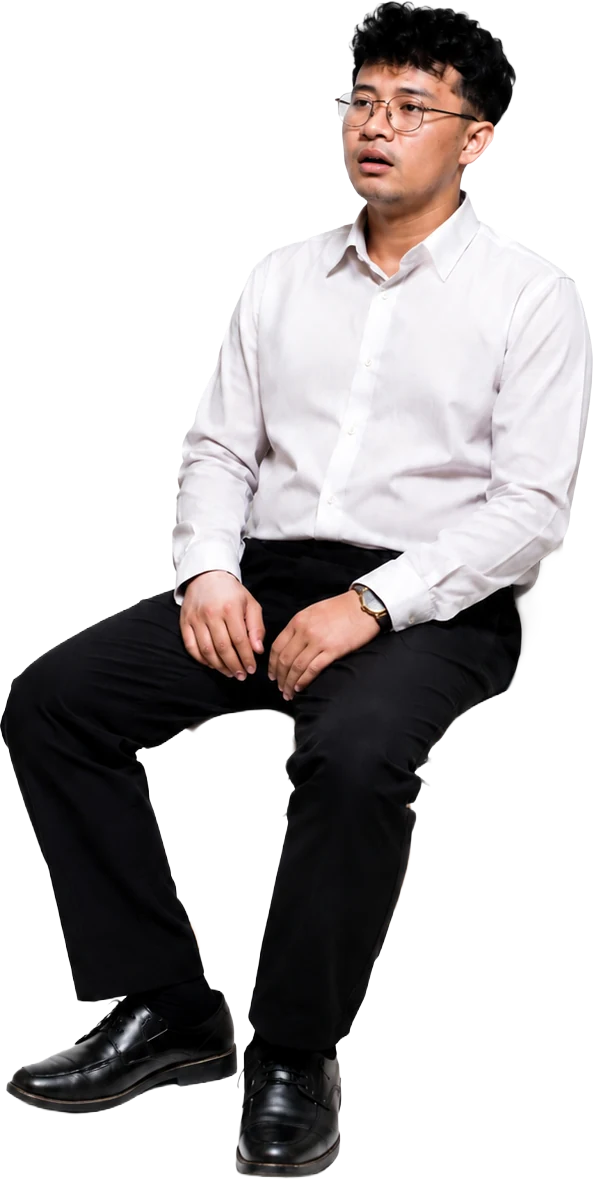
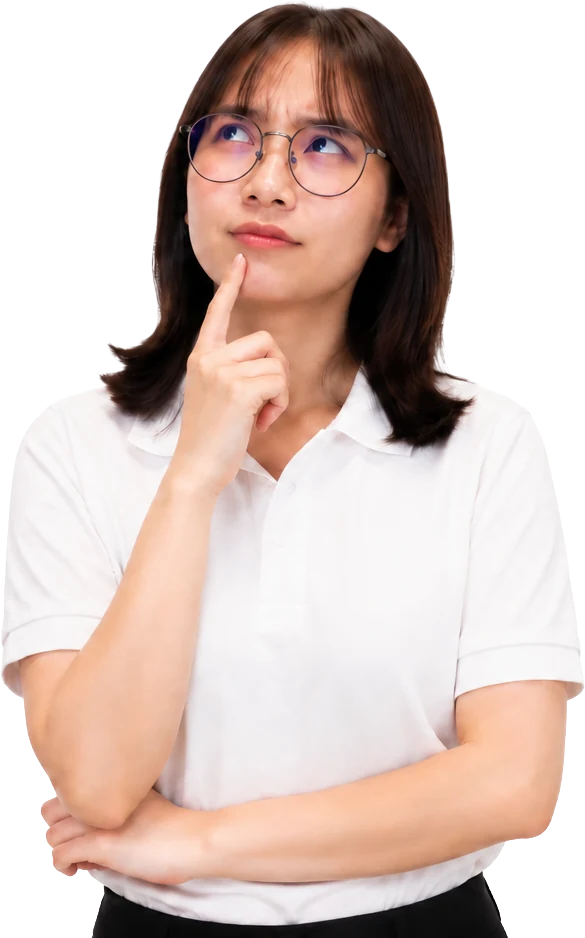
Open the module chooser in a modal, and tighten the page
The Login control now opens the eight modules in a dialog instead of loading
a page for a one-step decision. It stays an <a href="login.html"> and the
handler bails on modified clicks, so the URL is still bookmarkable, opens in
a new tab, and degrades to the standalone page if the script fails. Esc
closes, focus is trapped then restored to the trigger, and the scrollbar gap
is compensated so locking the body does not shift the layout.

Alongside that, several fixes:

The hero met the problem section as a hard colour band — its gradient runs
diagonally and ends warm, while the next section started on flat lilac. The
hero backdrop now fades into that exact colour, and the problem gradient
starts vertically so its top edge is uniform.

Section padding was clamp(64px,8vw,112px), stacking 224px of air between
sections on a wide screen. Now clamp(48px,5.6vw,80px).

Swaps the problem and stats portraits, and crops the problem one to half
body with a masked fade at the cut. Four question marks float around him,
replacing the two pseudo-elements.

The Populer badge moves above the plan name so it labels the card rather
than trailing the title, and "Semua di Starter, plus:" loses the suffix.
Two more FAQ entries: running several modules, and changing plan later.

diff --git a/assets/css/styles.css b/assets/css/styles.css
@@ -222,9 +222,15 @@ h3{font-size:1.06rem;line-height:1.35;letter-spacing:-.015em;font-weight:700}
 /* ============================================================
    HERO
    ============================================================ */
-.hero{position:relative;padding:clamp(48px,7vw,86px) 0 clamp(60px,8vw,110px);margin-top:calc(var(--nav-h) * -1);padding-top:calc(var(--nav-h) + 40px);overflow:hidden}
+.hero{position:relative;padding:clamp(48px,7vw,86px) 0 clamp(48px,6vw,86px);margin-top:calc(var(--nav-h) * -1);padding-top:calc(var(--nav-h) + 40px);overflow:hidden}
 .hero-bg{position:absolute;inset:-10% -5% 0;z-index:-1;background:
   linear-gradient(150deg,#EFE7FB 0%,#F6EAF6 32%,#FBEDEE 60%,#FDF2E9 82%,#FFFDFB 100%)}
+/* The hero's gradient runs diagonally and ends warm, while the next section
+   starts on a flat lilac — without this fade the two meet as a hard band. */
+.hero-bg::after{
+  content:"";position:absolute;left:0;right:0;bottom:0;height:230px;
+  background:linear-gradient(to bottom,rgba(238,232,250,0),#EEE8FA);
+}
 .blob{position:absolute;border-radius:50%;filter:blur(70px);opacity:.55}
 .b1{width:520px;height:520px;left:-8%;top:8%;background:#D9C7F5}
 .b2{width:480px;height:480px;right:-6%;top:-6%;background:#F7CFE0}
@@ -357,14 +363,16 @@ h3{font-size:1.06rem;line-height:1.35;letter-spacing:-.015em;font-weight:700}
 /* ============================================================
    SECTION SHELL
    ============================================================ */
-.sec{position:relative;padding:clamp(64px,8vw,112px) 0}
+.sec{position:relative;padding:clamp(48px,5.6vw,80px) 0}
 .sec-head{display:grid;grid-template-columns:minmax(0,1.55fr) minmax(0,1fr);gap:clamp(24px,4vw,52px);align-items:start;margin-bottom:clamp(36px,4vw,58px)}
 /* Slightly tighter than the global scale so the two-line headings in these
    sections hold their intended line breaks. */
 .sec-head h2{font-size:clamp(1.8rem,3vw,2.5rem);margin-bottom:18px}
 
 /* ── problem ────────────────────────────────────────── */
-.problem{background:linear-gradient(165deg,#EEE8FA 0%,#F5EBF6 40%,#FBEEEF 70%,#FDF4EC 100%)}
+/* Starts vertically so its top edge is a flat #EEE8FA — the exact colour the
+   hero's fade lands on — then leans diagonal further down. */
+.problem{background:linear-gradient(180deg,#EEE8FA 0%,#F0E9F8 18%,#F5EBF6 45%,#FBEEEF 74%,#FDF4EC 100%)}
 .problem > .wrap > h2{margin-bottom:44px}
 .problem-grid{display:grid;grid-template-columns:minmax(0,1fr) minmax(0,.9fr) minmax(0,1.06fr);gap:clamp(16px,2.5vw,34px);align-items:center}
 .problem-list{display:flex;flex-direction:column;gap:14px}
@@ -387,14 +395,22 @@ h3{font-size:1.06rem;line-height:1.35;letter-spacing:-.015em;font-weight:700}
 .pi .badge .ico{width:10px;height:10px;color:#fff;stroke-width:3}
 
 .problem-mid{position:relative;align-self:end;text-align:center}
-.problem-mid .person{position:relative;z-index:1;width:100%;max-width:340px;margin-inline:auto}
-/* Question marks from the mockup — the cut-out photo no longer carries them. */
-.problem-mid::before,.problem-mid::after{
-  content:"?";position:absolute;z-index:0;
+.problem-mid .person{
+  position:relative;z-index:1;width:100%;max-width:340px;margin-inline:auto;
+  /* Half-body crop — fade the cut so it doesn't read as a hard slice. */
+  -webkit-mask-image:linear-gradient(to bottom,#000 86%,transparent);
+  mask-image:linear-gradient(to bottom,#000 86%,transparent);
+}
+/* Question marks from the mockup — the cut-out photo doesn't carry them. */
+.qmarks{position:absolute;inset:0;z-index:0}
+.qmarks i{
+  position:absolute;font-style:normal;
   color:#B7A2E6;font-weight:800;line-height:1;
 }
-.problem-mid::before{left:0;top:6%;font-size:clamp(2.4rem,4vw,3.6rem);animation:fl 7s ease-in-out infinite}
-.problem-mid::after{right:2%;top:16%;font-size:clamp(1.6rem,2.6vw,2.4rem);animation:fl 9s ease-in-out 1.2s infinite}
+.qmarks i:nth-child(1){left:2%;top:14%;font-size:clamp(2.2rem,3.6vw,3.2rem);animation:fl 7s ease-in-out infinite}
+.qmarks i:nth-child(2){right:1%;top:6%;font-size:clamp(2.6rem,4.2vw,3.8rem);animation:fl 8.5s ease-in-out .6s infinite}
+.qmarks i:nth-child(3){left:12%;top:41%;font-size:clamp(1.3rem,2vw,1.9rem);opacity:.8;animation:fl 9.5s ease-in-out 1.2s infinite}
+.qmarks i:nth-child(4){right:9%;top:34%;font-size:clamp(1.5rem,2.4vw,2.2rem);opacity:.85;animation:fl 10.5s ease-in-out 1.8s infinite}
 
 .solve{
   padding:clamp(26px,3vw,38px);border-radius:var(--r-xl);
@@ -614,7 +630,15 @@ h3{font-size:1.06rem;line-height:1.35;letter-spacing:-.015em;font-weight:700}
 .plan.pop{border-color:#DACFFA;box-shadow:0 24px 50px -24px rgba(124,92,232,.4)}
 .plan-top{display:flex;align-items:center;gap:12px;margin-bottom:12px}
 .plan-top h3{font-size:1.28rem;font-weight:800;letter-spacing:-.02em}
-.tag{margin-left:auto;padding:4px 11px;border-radius:999px;background:var(--purple-soft);color:var(--purple);font-size:.68rem;font-weight:700}
+/* Sits above the plan name rather than beside it, so it reads as a label on
+   the whole card instead of an afterthought next to the title. */
+.tag{
+  display:inline-flex;align-items:center;align-self:flex-start;
+  margin-bottom:14px;padding:6px 14px;border-radius:999px;
+  background:linear-gradient(100deg,var(--purple),#8B4FE0);color:#fff;
+  font-size:.7rem;font-weight:700;letter-spacing:.04em;text-transform:uppercase;
+  box-shadow:0 6px 16px -8px rgba(124,92,232,.9);
+}
 .plan > p{font-size:.83rem;color:var(--muted);line-height:1.5;margin-bottom:20px;min-height:3em}
 .plan ul{display:flex;flex-direction:column;gap:11px;margin-bottom:24px}
 .plan li{display:flex;align-items:flex-start;gap:10px;font-size:.85rem;color:var(--ink-2)}
@@ -725,6 +749,76 @@ h3{font-size:1.06rem;line-height:1.35;letter-spacing:-.015em;font-weight:700}
 }
 .made{display:flex;align-items:center;gap:7px}
 .heart{color:var(--purple-2);stroke:none}
+
+/* ============================================================
+   MODAL PEMILIH MODUL
+   ============================================================ */
+.lm{position:fixed;inset:0;z-index:120;display:grid;place-items:center;padding:20px}
+.lm-veil{
+  position:absolute;inset:0;
+  background:rgba(24,20,52,.42);backdrop-filter:blur(4px);
+  opacity:0;transition:opacity .25s;
+}
+.lm-panel{
+  position:relative;width:min(100%,720px);max-height:calc(100vh - 40px);
+  overflow-y:auto;overscroll-behavior:contain;
+  padding:clamp(26px,4vw,38px);border-radius:var(--r-xl);
+  background:#fff;box-shadow:0 40px 90px -30px rgba(24,20,52,.5);
+  opacity:0;transform:translateY(14px) scale(.98);
+  transition:opacity .28s cubic-bezier(.22,1,.36,1),transform .28s cubic-bezier(.22,1,.36,1);
+}
+.lm.on .lm-veil{opacity:1}
+.lm.on .lm-panel{opacity:1;transform:none}
+
+.lm-x{
+  position:absolute;top:16px;right:16px;
+  display:grid;place-items:center;width:38px;height:38px;border-radius:50%;
+  color:var(--muted);transition:background .2s,color .2s;
+}
+.lm-x:hover{background:#F4F1FB;color:var(--ink)}
+.lm-panel h2{font-size:clamp(1.35rem,2.4vw,1.75rem);margin-bottom:10px}
+.lm-lead{font-size:.9rem;color:var(--muted);line-height:1.6;margin-bottom:22px;max-width:52ch}
+
+.lm-grid{display:grid;grid-template-columns:1fr 1fr;gap:10px}
+.lm-grid a{
+  --accent:var(--purple);
+  display:flex;align-items:center;gap:13px;
+  padding:13px 15px;border-radius:16px;
+  border:1px solid var(--line-2);background:#FCFBFE;
+  transition:border-color .22s,background .22s,transform .22s;
+}
+.lm-grid a:hover,.lm-grid a:focus-visible{
+  background:#fff;transform:translateX(3px);outline:none;
+  border-color:color-mix(in srgb,var(--accent) 40%,transparent);
+}
+.lm-grid a:focus-visible{box-shadow:0 0 0 3px color-mix(in srgb,var(--accent) 22%,transparent)}
+.lm-icon{display:grid;place-items:center;flex:none;width:40px;height:40px;border-radius:12px;color:#fff}
+.lm-icon .ico{width:20px;height:20px}
+.lm-body{flex:1;min-width:0}
+.lm-body b{display:block;font-size:.92rem;font-weight:700;letter-spacing:-.01em}
+.lm-body code{display:block;font-family:var(--mono);font-size:.68rem;color:var(--muted-2);margin-top:2px}
+.lm-grid a > .ico{color:var(--accent);opacity:0;transform:translateX(-4px);transition:opacity .22s,transform .22s}
+.lm-grid a:hover > .ico,.lm-grid a:focus-visible > .ico{opacity:1;transform:none}
+
+.lm-foot{
+  display:flex;flex-wrap:wrap;align-items:center;gap:10px;
+  margin-top:22px;padding-top:18px;border-top:1px solid var(--line-2);
+  font-size:.86rem;color:var(--muted);
+}
+.lm-foot a{font-weight:700;color:var(--purple)}
+.lm-foot a:hover{text-decoration:underline}
+.lm-foot span{color:#C9C3DA}
+
+@media (max-width:620px){
+  .lm{padding:12px}
+  .lm-grid{grid-template-columns:1fr}
+  .lm-lead{margin-bottom:18px}
+}
+
+@media (prefers-reduced-motion:reduce){
+  .lm-veil,.lm-panel,.lm-grid a,.lm-grid a > .ico{transition:none}
+  .lm-panel{transform:none}
+}
 
 /* ============================================================
    REVEAL

diff --git a/assets/js/login-modal.js b/assets/js/login-modal.js
@@ -1,0 +1,120 @@
+/* ============================================================
+   ALTORA — modal pemilih modul
+
+   Tombol "Login" tetap sebuah <a href="login.html">, jadi tautannya bisa
+   di-bookmark, dibuka di tab baru, dan tetap berfungsi kalau skrip ini gagal
+   dimuat. Skrip ini hanya mencegat klik biasa dan menampilkan pilihan yang
+   sama tanpa meninggalkan halaman.
+   ============================================================ */
+(function () {
+  'use strict';
+
+  var modules = window.ALTORA_MODULES || [];
+  var links = document.querySelectorAll('a[href="login.html"]');
+  if (!modules.length || !links.length) return;
+
+  var FOCUSABLE = 'a[href],button:not([disabled]),input,[tabindex]:not([tabindex="-1"])';
+  var modal = null;
+  var lastFocused = null;
+
+  function icon(id) {
+    return '<svg class="ico"><use href="#' + id + '"/></svg>';
+  }
+
+  function build() {
+    var el = document.createElement('div');
+    el.className = 'lm';
+    el.hidden = true;
+    el.innerHTML =
+      '<div class="lm-veil" data-close></div>' +
+      '<div class="lm-panel" role="dialog" aria-modal="true" aria-labelledby="lmTitle">' +
+        '<button class="lm-x" type="button" data-close aria-label="Tutup">' + icon('i-x') + '</button>' +
+        '<p class="eyebrow eyebrow-purple">Masuk ke Altora</p>' +
+        '<h2 id="lmTitle">Pilih modul yang ingin Anda akses</h2>' +
+        '<p class="lm-lead">Setiap modul punya halaman masuk sendiri. Punya lebih dari satu? Masuk ke masing-masing modul sesuai bisnis yang ingin dikelola.</p>' +
+        '<ul class="lm-grid">' +
+          modules.map(function (m) {
+            return '<li><a href="https://' + m.host + '" style="--accent:' + m.hex + '">' +
+              '<span class="lm-icon" style="background:' + m.hex + '">' + icon(m.icon) + '</span>' +
+              '<span class="lm-body"><b>' + m.name + '</b><code>' + m.host + '</code></span>' +
+              icon('i-arrow') +
+            '</a></li>';
+          }).join('') +
+        '</ul>' +
+        '<p class="lm-foot">Belum punya akun? <a href="#cta" data-close>Mulai gratis</a>' +
+          '<span>·</span><a href="login.html">Buka halaman penuh</a></p>' +
+      '</div>';
+
+    el.addEventListener('click', function (e) {
+      if (e.target.closest('[data-close]')) close();
+    });
+    document.body.appendChild(el);
+    return el;
+  }
+
+  function open(trigger) {
+    if (!modal) modal = build();
+    lastFocused = trigger || document.activeElement;
+
+    // Kunci scroll tanpa menggeser layout saat scrollbar hilang.
+    var gap = window.innerWidth - document.documentElement.clientWidth;
+    document.body.style.overflow = 'hidden';
+    if (gap > 0) document.body.style.paddingRight = gap + 'px';
+
+    modal.hidden = false;
+    requestAnimationFrame(function () { modal.classList.add('on'); });
+
+    var first = modal.querySelector('.lm-grid a');
+    if (first) first.focus();
+
+    document.addEventListener('keydown', onKey);
+  }
+
+  function close() {
+    if (!modal || modal.hidden) return;
+
+    modal.classList.remove('on');
+    document.removeEventListener('keydown', onKey);
+    document.body.style.overflow = '';
+    document.body.style.paddingRight = '';
+
+    var done = function () {
+      modal.hidden = true;
+      modal.removeEventListener('transitionend', done);
+    };
+    modal.addEventListener('transitionend', done);
+
+    if (lastFocused) lastFocused.focus();
+  }
+
+  function onKey(e) {
+    if (e.key === 'Escape') return close();
+    if (e.key !== 'Tab') return;
+
+    var items = Array.prototype.filter.call(
+      modal.querySelectorAll(FOCUSABLE),
+      function (n) { return n.offsetParent !== null; }
+    );
+    if (!items.length) return;
+
+    var first = items[0];
+    var last = items[items.length - 1];
+
+    if (e.shiftKey && document.activeElement === first) {
+      e.preventDefault();
+      last.focus();
+    } else if (!e.shiftKey && document.activeElement === last) {
+      e.preventDefault();
+      first.focus();
+    }
+  }
+
+  Array.prototype.forEach.call(links, function (link) {
+    link.addEventListener('click', function (e) {
+      // Biarkan browser menangani buka-di-tab-baru dan sejenisnya.
+      if (e.metaKey || e.ctrlKey || e.shiftKey || e.altKey || e.button !== 0) return;
+      e.preventDefault();
+      open(link);
+    });
+  });
+})();

diff --git a/assets/js/main.js b/assets/js/main.js
@@ -26,13 +26,13 @@
       feats: ['Kasir POS', 'Stok & Inventori', 'Laporan Penjualan', 'Multi User'] },
     { name: 'Pro', icon: 'i-crown', tone: 'purple', tick: '#7C5CE8', popular: true,
       desc: 'Untuk bisnis yang sudah berkembang.',
-      feats: ['Semua di Starter, plus:', 'Purchase Order', 'Laporan Lanjutan', 'Manajemen Promo', 'Akses Multi Cabang'] },
+      feats: ['Semua di Starter', 'Purchase Order', 'Laporan Lanjutan', 'Manajemen Promo', 'Akses Multi Cabang'] },
     { name: 'Business', icon: 'i-brief', tone: 'blue', tick: '#3B82F6',
       desc: 'Untuk bisnis skala besar dan multi-outlet.',
-      feats: ['Semua di Pro, plus:', 'Manajemen Gudang', 'Laporan Keuangan', 'Approval & Hak Akses', 'Integrasi API'] },
+      feats: ['Semua di Pro', 'Manajemen Gudang', 'Laporan Keuangan', 'Approval & Hak Akses', 'Integrasi API'] },
     { name: 'Enterprise', icon: 'i-building', tone: 'pink', tick: '#EC5B9E',
       desc: 'Solusi khusus untuk kebutuhan enterprise Anda.',
-      feats: ['Semua di Business, plus:', 'Kustomisasi Sistem', 'Dedicated Support', 'SLA & Security Tingkat Tinggi', 'On-Premise (Opsional)'] }
+      feats: ['Semua di Business', 'Kustomisasi Sistem', 'Dedicated Support', 'SLA & Security Tingkat Tinggi', 'On-Premise (Opsional)'] }
   ];
 
   var FAQS = [
@@ -47,7 +47,11 @@
     { icon: 'i-store', tone: 'green', q: 'Apakah bisa digunakan untuk banyak cabang?',
       a: 'Bisa. Altora mendukung multi-cabang dengan kontrol terpusat secara real-time.' },
     { icon: 'i-sync', tone: 'pink', q: 'Bisakah saya mencoba Altora terlebih dahulu?',
-      a: 'Tentu! Anda bisa mencoba demo gratis dan melihat fitur-fiturnya sebelum berlangganan.' }
+      a: 'Tentu! Anda bisa mencoba demo gratis dan melihat fitur-fiturnya sebelum berlangganan.' },
+    { icon: 'i-building', tone: 'navy', q: 'Bagaimana jika saya punya lebih dari satu jenis bisnis?',
+      a: 'Bisa. Anda dapat berlangganan beberapa modul sekaligus, misalnya Cafe dan Laundry. Setiap modul punya halaman masuk sendiri sesuai jenis bisnisnya.' },
+    { icon: 'i-layers', tone: 'teal', q: 'Apakah saya bisa pindah paket nanti?',
+      a: 'Bisa, kapan saja. Naik atau turun paket bisa dilakukan seiring bisnis Anda berkembang, dan tim kami membantu proses penyesuaiannya.' }
   ];
 
   /* ── render: industries ──────────────────────────── */
@@ -84,10 +88,10 @@
   if (plansEl) {
     plansEl.innerHTML = PLANS.map(function (p, i) {
       return '<article class="plan reveal' + (p.popular ? ' pop' : '') + '" data-d="' + (i % 4) + '">' +
+        (p.popular ? '<span class="tag">Populer</span>' : '') +
         '<div class="plan-top">' +
           '<span class="mi mi-' + p.tone + '">' + icon(p.icon) + '</span>' +
           '<h3>' + p.name + '</h3>' +
-          (p.popular ? '<span class="tag">Populer</span>' : '') +
         '</div>' +
         '<p>' + p.desc + '</p>' +
         '<ul>' + p.feats.map(function (f) {

diff --git a/index.html b/index.html
@@ -229,7 +229,8 @@
       </div>
 
       <div class="problem-mid reveal" data-d="2">
-        <img class="person" src="assets/img/person-problem.webp" alt="Pemilik toko yang sedang berpikir" width="585" height="938" loading="lazy" decoding="async">
+        <span class="qmarks" aria-hidden="true"><i>?</i><i>?</i><i>?</i><i>?</i></span>
+        <img class="person" src="assets/img/person-problem.webp" alt="Pemilik toko yang sedang menimbang pilihan" width="593" height="660" loading="lazy" decoding="async">
       </div>
 
       <aside class="solve reveal" data-d="3">
@@ -275,7 +276,7 @@
         <div class="stat"><span class="si si-blue"><svg class="ico"><use href="#i-pin"/></svg></span><b class="mono" data-count="250" data-suffix="+">0</b><span class="sn">Kota di Indonesia</span><i>Menggunakan Altora</i></div>
         <div class="stat"><span class="si si-amber"><svg class="ico"><use href="#i-trend"/></svg></span><b class="mono" data-count="99.9" data-suffix="%">0</b><span class="sn">Uptime Sistem</span><i>Aman &amp; stabil setiap saat</i></div>
       </div>
-      <img class="person person-stats" src="assets/img/person-stats.webp" alt="" width="593" height="1179" loading="lazy" decoding="async" aria-hidden="true">
+      <img class="person person-stats" src="assets/img/person-stats.webp" alt="" width="585" height="938" loading="lazy" decoding="async" aria-hidden="true">
     </div>
   </div>
 </section>
@@ -512,5 +513,6 @@
 
 <script src="assets/js/modules.js"></script>
 <script src="assets/js/main.js"></script>
+<script src="assets/js/login-modal.js"></script>
 </body>
 </html>

diff --git a/README.md b/README.md
@@ -23,6 +23,7 @@ assets/css/login.css    # layout khusus halaman masuk
 assets/js/modules.js    # daftar 8 modul Altora (dipakai dua halaman)
 assets/js/main.js       # data section beranda + interaksi
 assets/js/login.js      # render pemilih modul + filter
+assets/js/login-modal.js # modal pemilih modul di beranda
 assets/img/             # logo dan foto mascot (WebP, transparan)
 ```
 
@@ -46,7 +47,13 @@ Daftar modul beserta subdomainnya ada di
 [`assets/js/modules.js`](assets/js/modules.js) — file yang sama juga mengisi
 kartu industri di beranda, jadi menambah modul baru cukup di satu tempat.
 Kalau alamat masuknya bukan root subdomain, sesuaikan `href` di
-[`assets/js/login.js`](assets/js/login.js).
+[`assets/js/login.js`](assets/js/login.js) dan
+[`assets/js/login-modal.js`](assets/js/login-modal.js).
+
+Di beranda, tombol Login tetap sebuah `<a href="login.html">`, lalu
+`login-modal.js` mencegat klik biasa dan menampilkan pilihan yang sama dalam
+modal. Jadi tautannya tetap bisa di-bookmark, bisa dibuka di tab baru, dan
+halaman tetap berfungsi kalau skripnya gagal dimuat.
 
 ## Catatan aset
 
